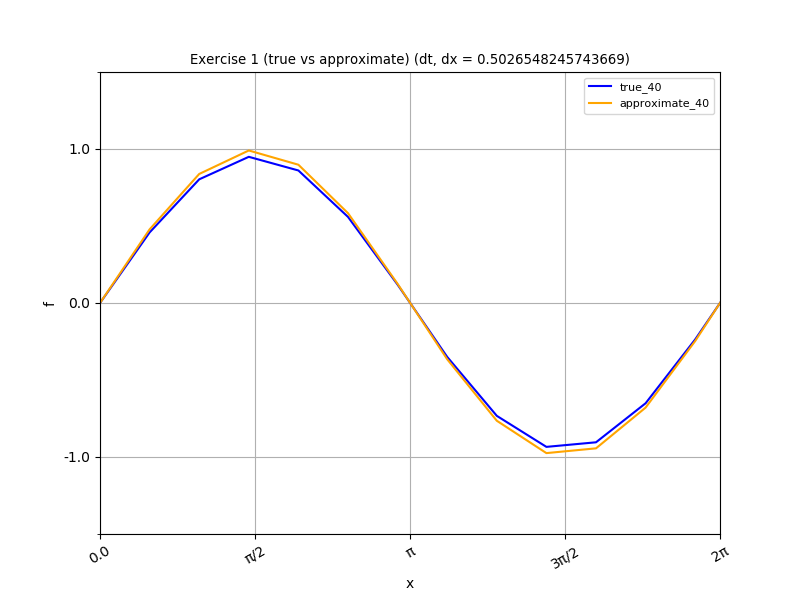
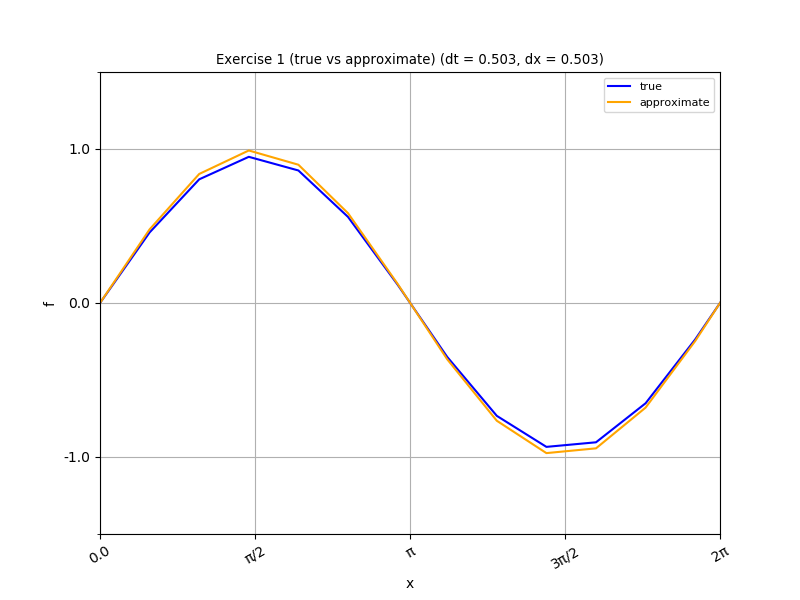
add lecture8 coding

Changed region(s): [[0.25, 0.09, 0.9062, 0.21]]

diff --git a/src/lecture8.py b/src/lecture8.py
@@ -103,10 +103,10 @@ def xx(s):
 
 # setup
 PI = np.pi
-n = 2
+n = 6
 L = 2 * PI
-x_i = 206
-t_i = 200
+x_i = 500
+t_i = 500
 dt1 = 8 * L / t_i
 dt2 = 8 * L / t_i
 dx = 8 * L / x_i
@@ -166,13 +166,13 @@ if __name__ == '__main__':
                     g[i][j] = 2 * g[i - 1][j] - g[i - 2][j] + c ** 2 * dt1 ** 2 / dx ** 2 * (g[i - 1][j + 1] - 2 * g[i - 1][j] + g[i - 1][j - 1])
 
     # graph
-    # os.makedirs(f'../data/lecture8/images/n_{n}/{t_i}', exist_ok=True)
+    os.makedirs(f'../data/lecture8/images/n_{n}/{t_i}', exist_ok=True)
     # exercise 1
     fig1, ax1 = plt.subplots(figsize=(8, 6))
     plt.rcParams['font.family'] = 'sans-serif'
     plt.rcParams['font.size'] = 8
-    pt = plt.plot(x, f_true[int(0.4 * t_i)], label=f'true_{int(0.4 * t_i)}', color='blue')
-    pa = plt.plot(x, f[int(0.4 * t_i)], label=f'approximate_{int(0.4 * t_i)}', color='orange')
+    pt = plt.plot(x, f_true[int(0.4 * t_i)], label='true', color='blue')
+    pa = plt.plot(x, f[int(0.4 * t_i)], label='approximate', color='orange')
     plt.xlim(0, L)
     plt.ylim(-3 * A / c / n, 3 * A / c / n)
     plt.title(f"Exercise 1 (true vs approximate) (dt = {round(dt1, 3)}, dx = {round(dx, 3)})")
@@ -185,14 +185,14 @@ if __name__ == '__main__':
     plt.xlabel('x')
     plt.ylabel('f')
     ax1.grid(which="both")
-    plt.show()
-    # fig1.savefig(f'../data/lecture8/images/n_{n}/{t_i}/vs_1.png')
+    # plt.show()
+    fig1.savefig(f'../data/lecture8/images/n_{n}/{t_i}/vs_1.png')
     # exercise 2
     fig2, ax2 = plt.subplots(figsize=(8, 6))
     plt.rcParams['font.family'] = 'sans-serif'
     plt.rcParams['font.size'] = 8
-    qt = plt.plot(x, g_true[int(0.4 * t_i)], label=f'true_{int(0.4 * t_i)}', color='blue')
-    qa = plt.plot(x, g[int(0.4 * t_i)][:-1], label=f'approximate_{int(0.4 * t_i)}', color='orange')
+    qt = plt.plot(x, g_true[int(0.4 * t_i)], label='true', color='blue')
+    qa = plt.plot(x, g[int(0.4 * t_i)][:-1], label='approximate', color='orange')
     plt.xlim(0, L)
     plt.ylim(-5 * A / c / (2 * n - 1), 5 * A / c / (2 * n - 1))
     plt.title(f"Exercise 2 (true vs approximate) (dt = {round(dt1, 3)}, dx = {round(dx, 3)}))")
@@ -205,8 +205,8 @@ if __name__ == '__main__':
     plt.xlabel('x')
     plt.ylabel('f')
     ax2.grid(which="both")
-    plt.show()
-    # fig2.savefig(f'../data/lecture8/images/n_{n}/{t_i}/vs_2.png')
+    # plt.show()
+    fig2.savefig(f'../data/lecture8/images/n_{n}/{t_i}/vs_2.png')
 
     # gif
     # os.makedirs(f'../data/lecture8/gif/n_{n}/{t_i}', exist_ok=True)
